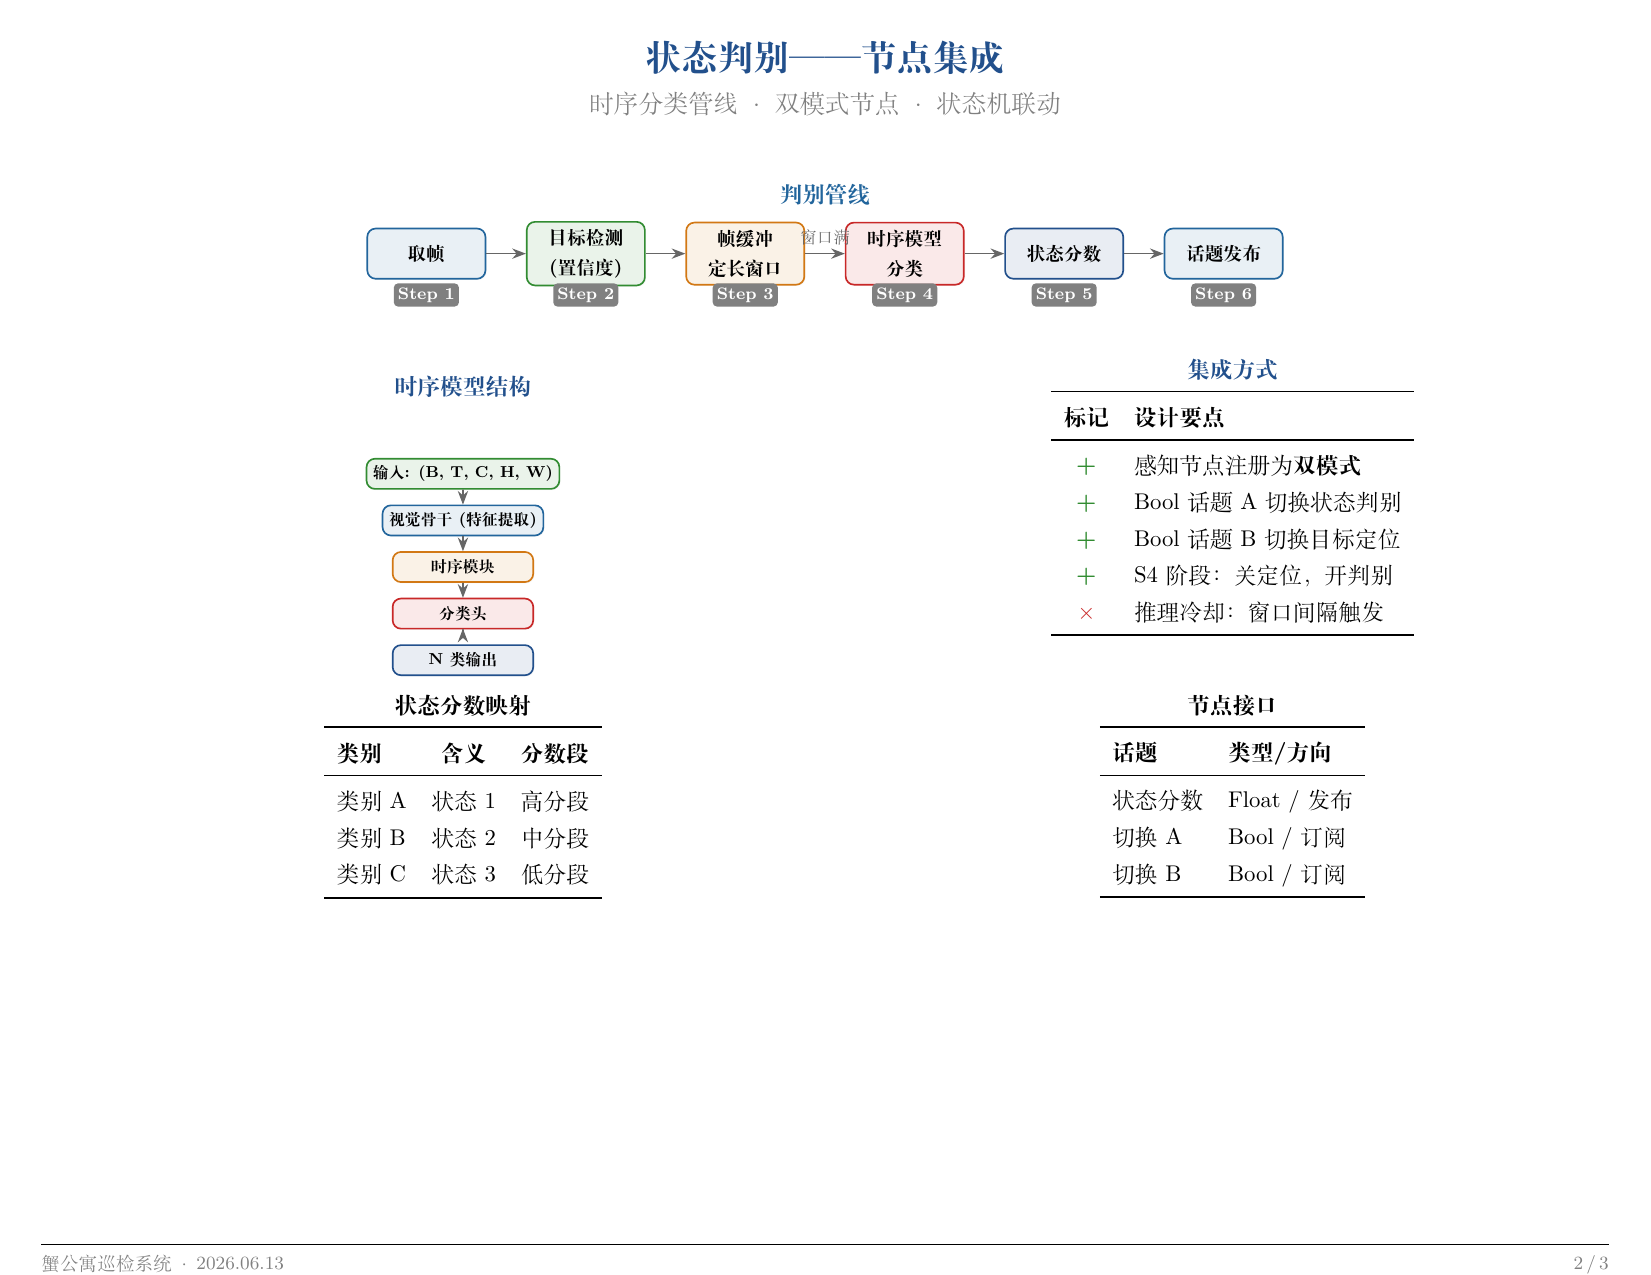
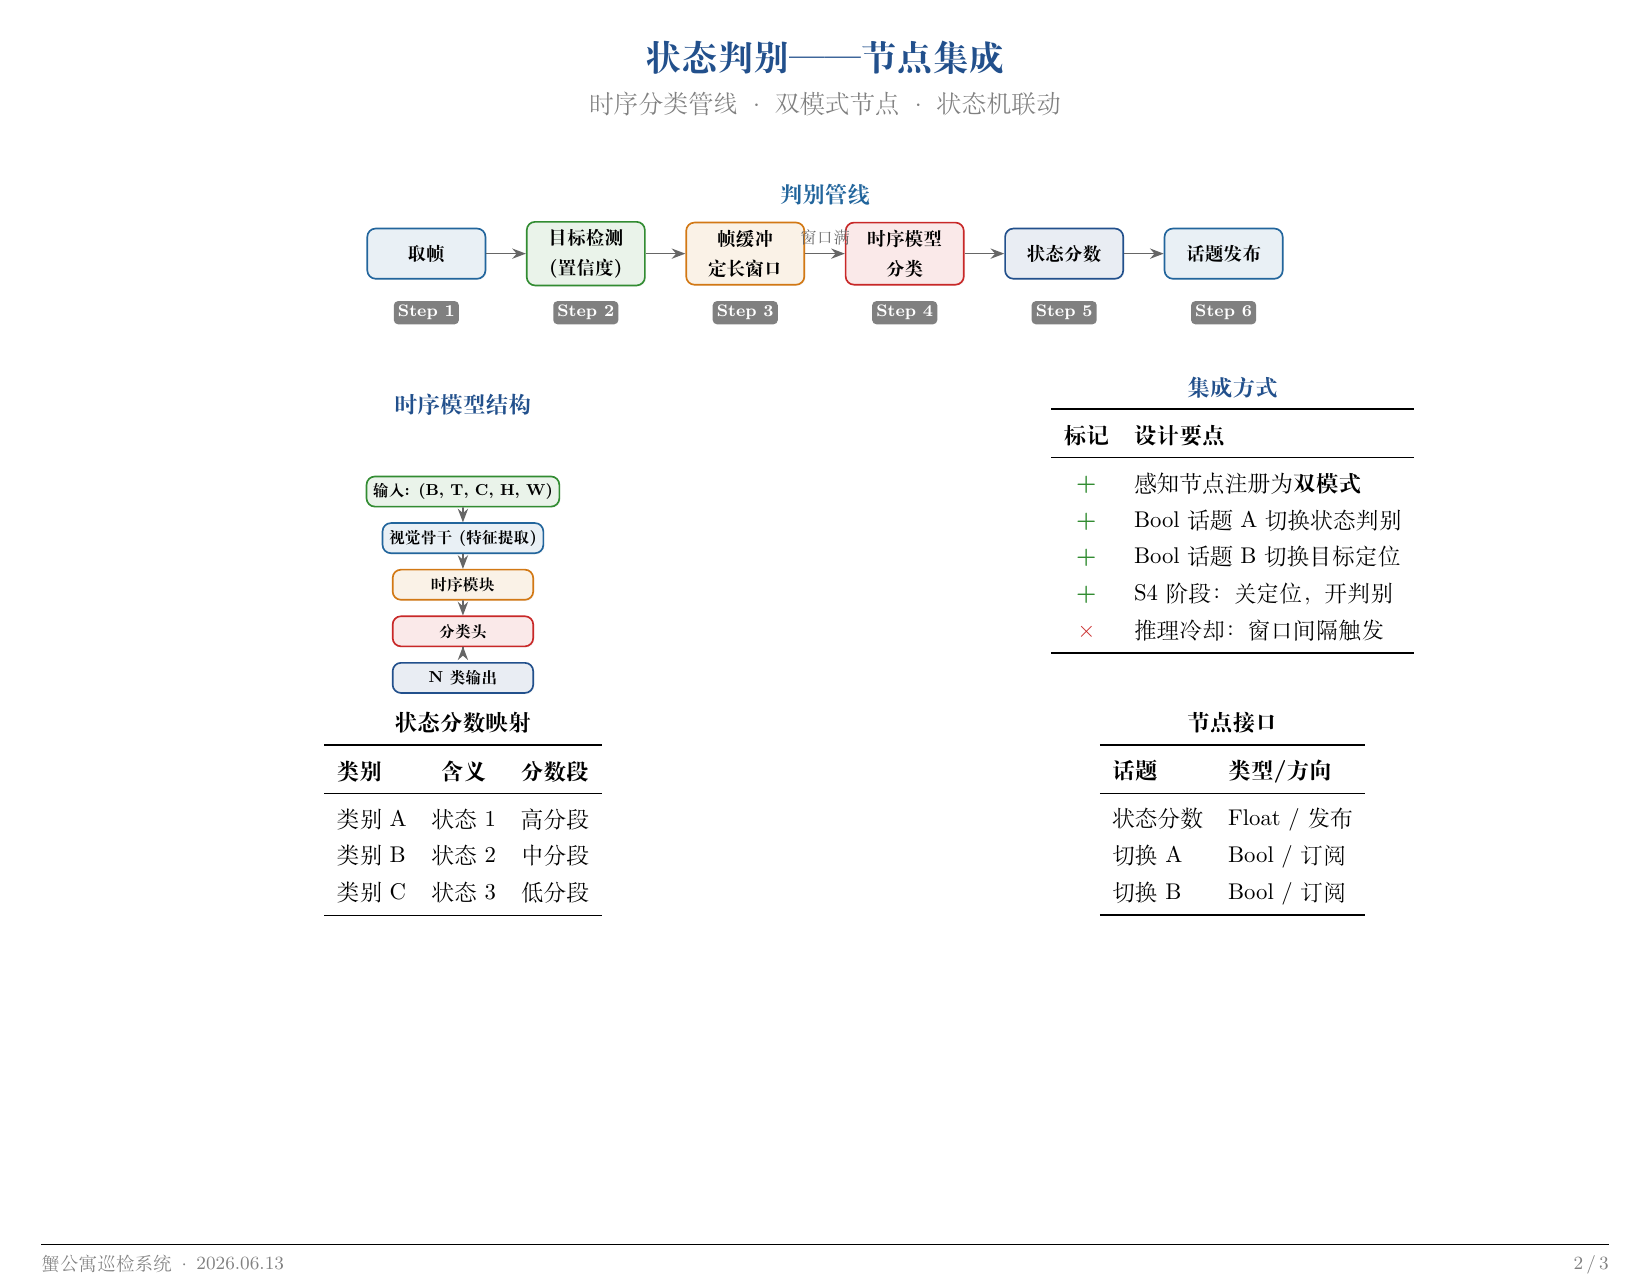
Raise 状态分数→S4 arrow above sbox title to avoid overlap
The arrow's horizontal segment was at y=-0.05, coinciding with the
"巡检状态机" title text. Increase yshift from 0.6cm to 1.0cm so the
segment sits at y=0.35 — above both the title (top ~0.15) and the
sbox top edge (0.1). Removes the visual collision.

Also picks up a minor page-2.png recompile artifact from the previous
state-row alignment commit.

diff --git a/examples/crab-inspection/group_meeting_6_13.tex b/examples/crab-inspection/group_meeting_6_13.tex
@@ -135,7 +135,7 @@
 \draw[arrow, wingreen] (s5.west) -| (s1.south);
 
 \draw[arrow, thick] (tout.east) -- ++(0.3, 0) |- (s2.west);
-\draw[arrow, thick, accent!80] (sout.east) -- ++(0.4, 0) |- ([yshift=0.6cm]s4.north) -- (s4.north);
+\draw[arrow, thick, accent!80] (sout.east) -- ++(0.4, 0) |- ([yshift=1.0cm]s4.north) -- (s4.north);
 
 % --- 底部:服务节点 + 上行系统 (通用名) ---
 \node[comp, fill=secondaryblue!10, draw=secondaryblue, minimum width=2.4cm] (server)